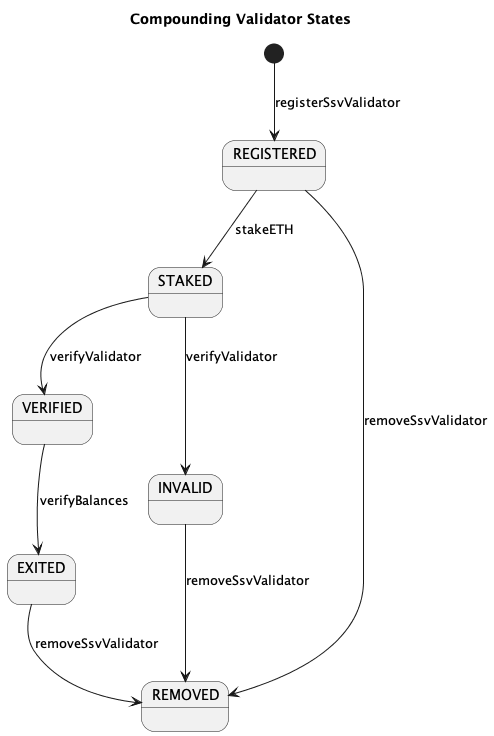
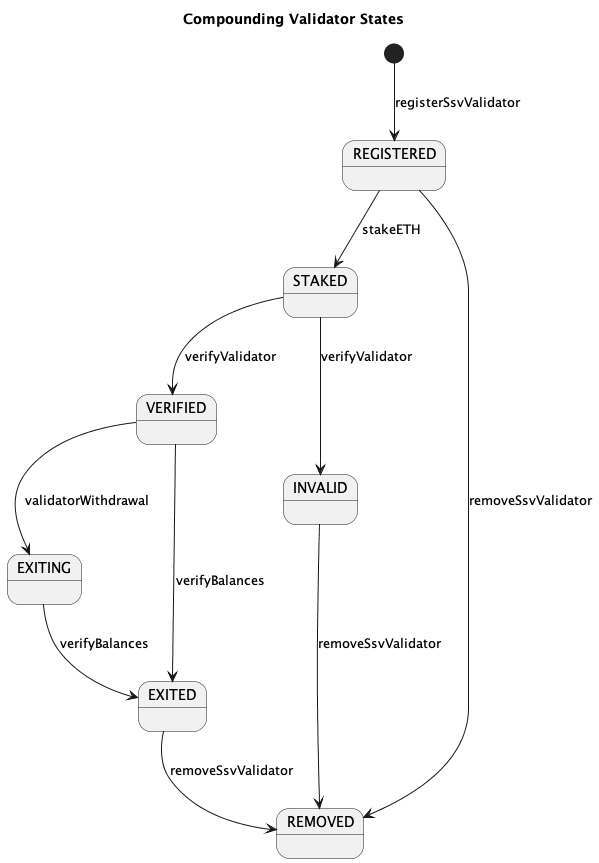
Added EXITING validator state to help prevent deposits to exiting validators (#2627)

diff --git a/contracts/test/strategies/compoundingSSVStaking.js b/contracts/test/strategies/compoundingSSVStaking.js
@@ -1725,7 +1725,7 @@ describe("Unit test: Compounding SSV Staking Strategy", function () {
                 testValidators[3].publicKeyHash
               )
             ).state
-          ).to.equal(4); // EXITED
+          ).to.equal(5); // EXITED
         });
       });
     });
